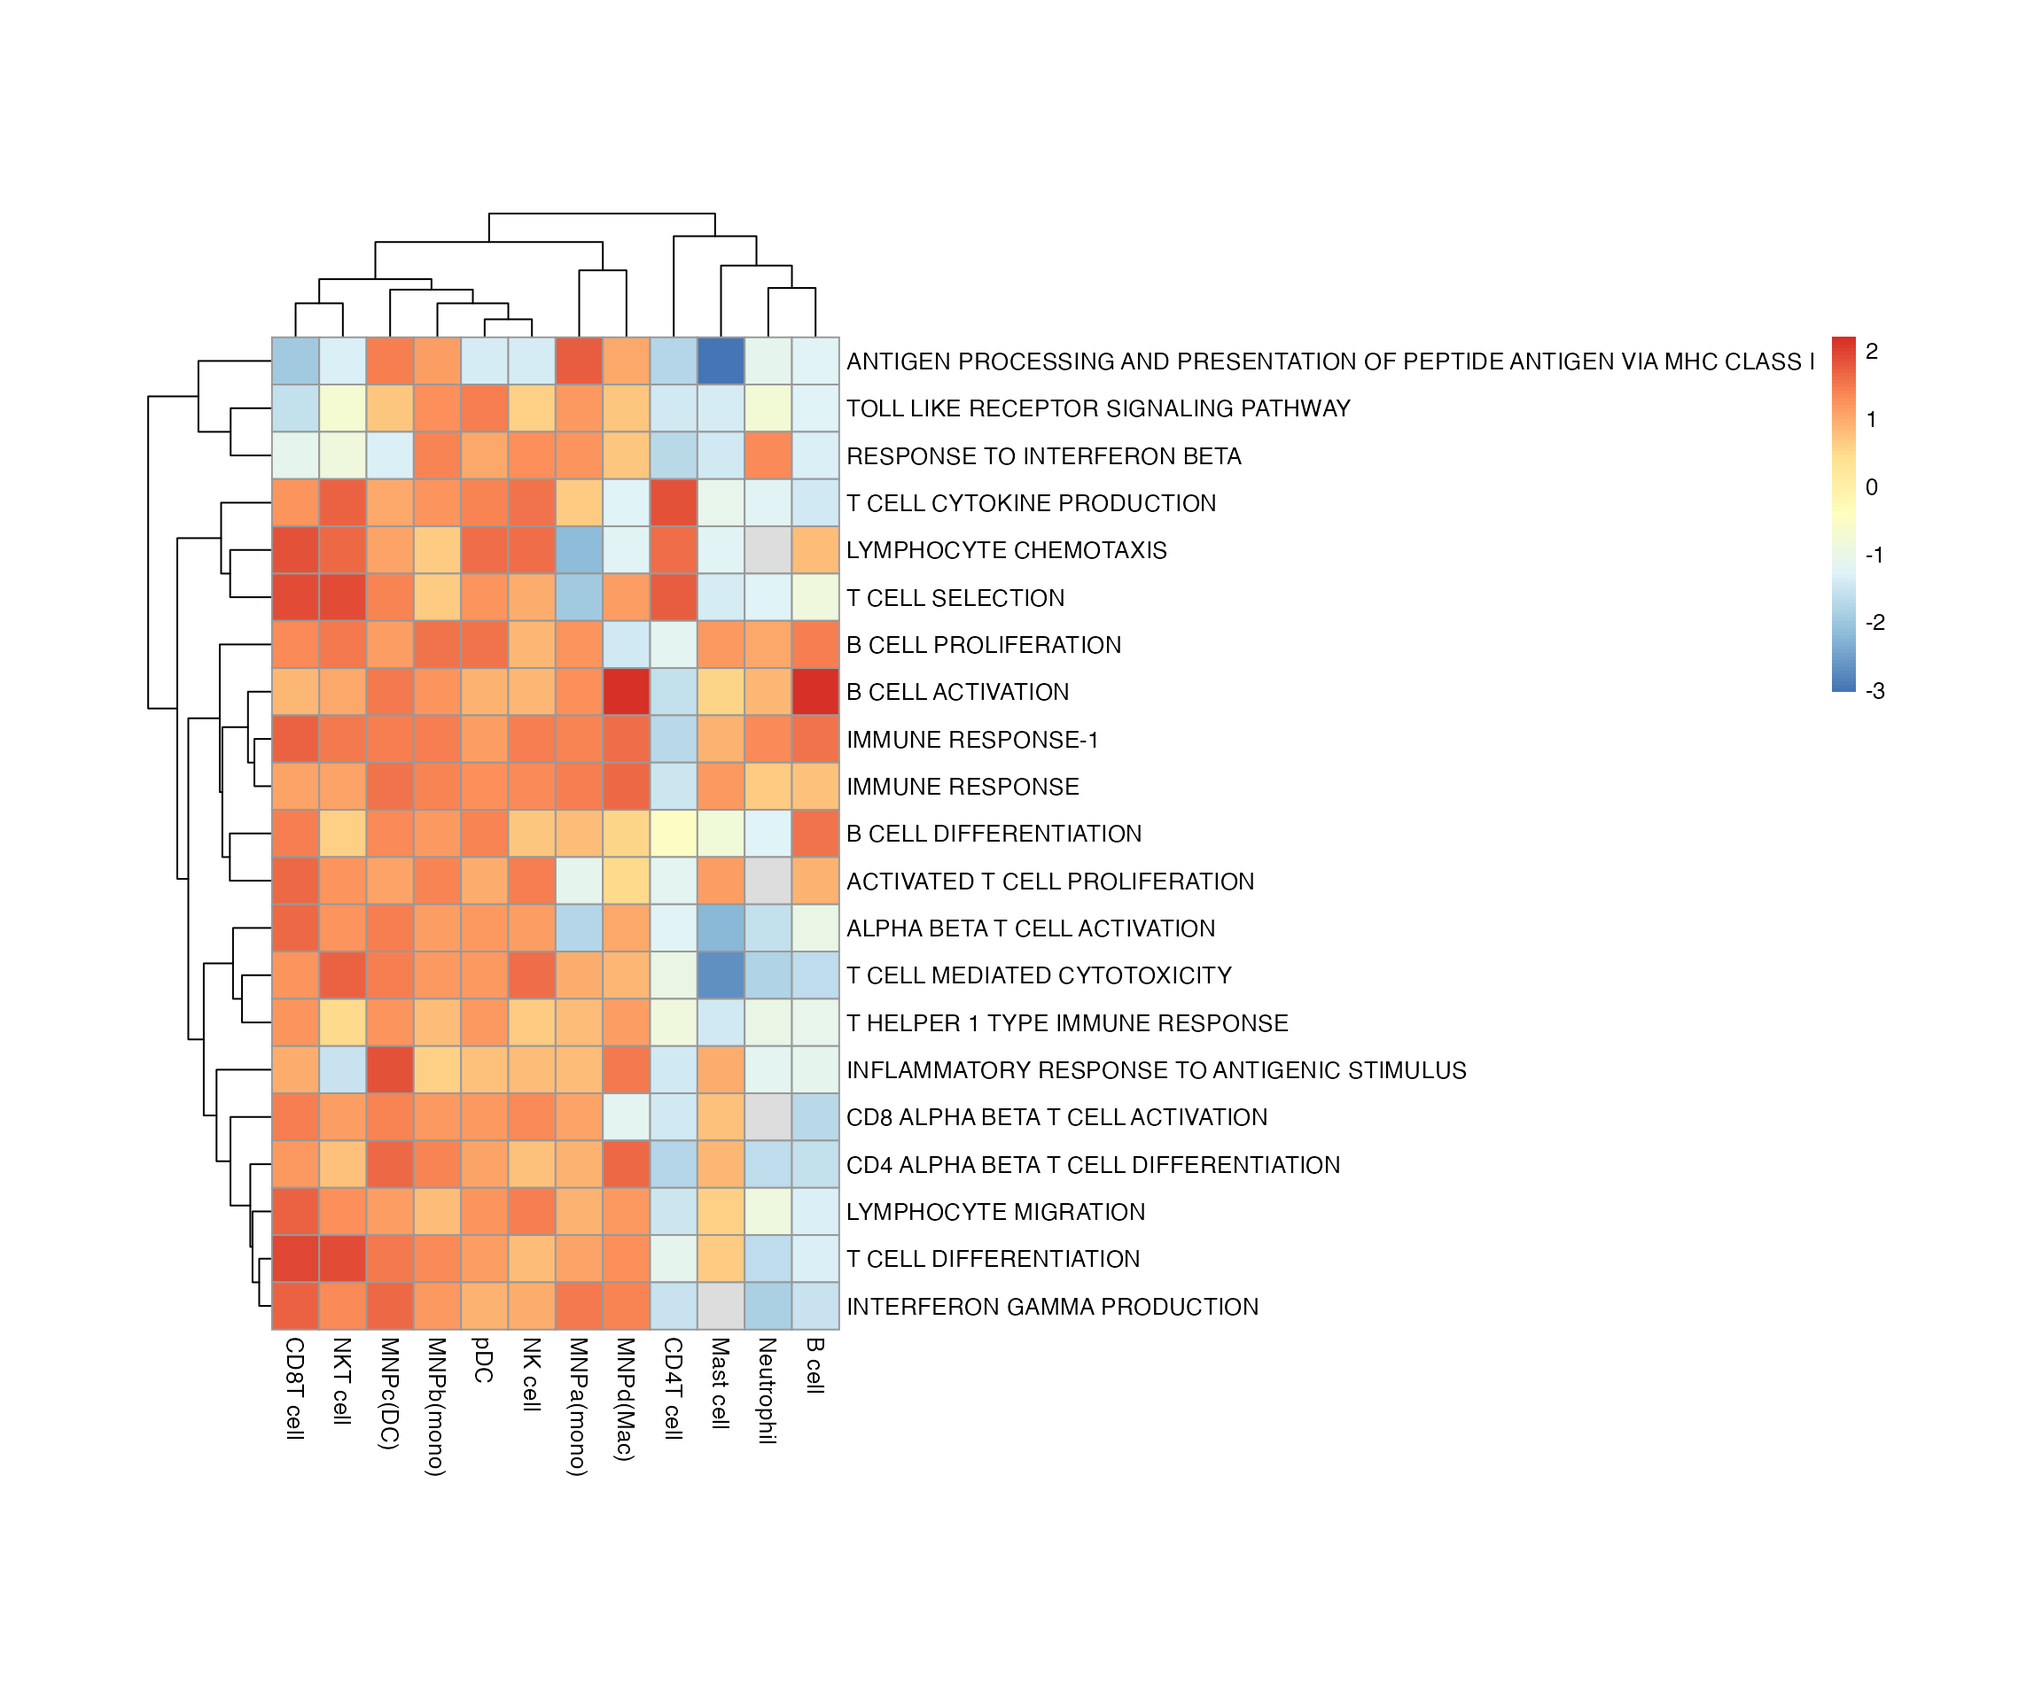
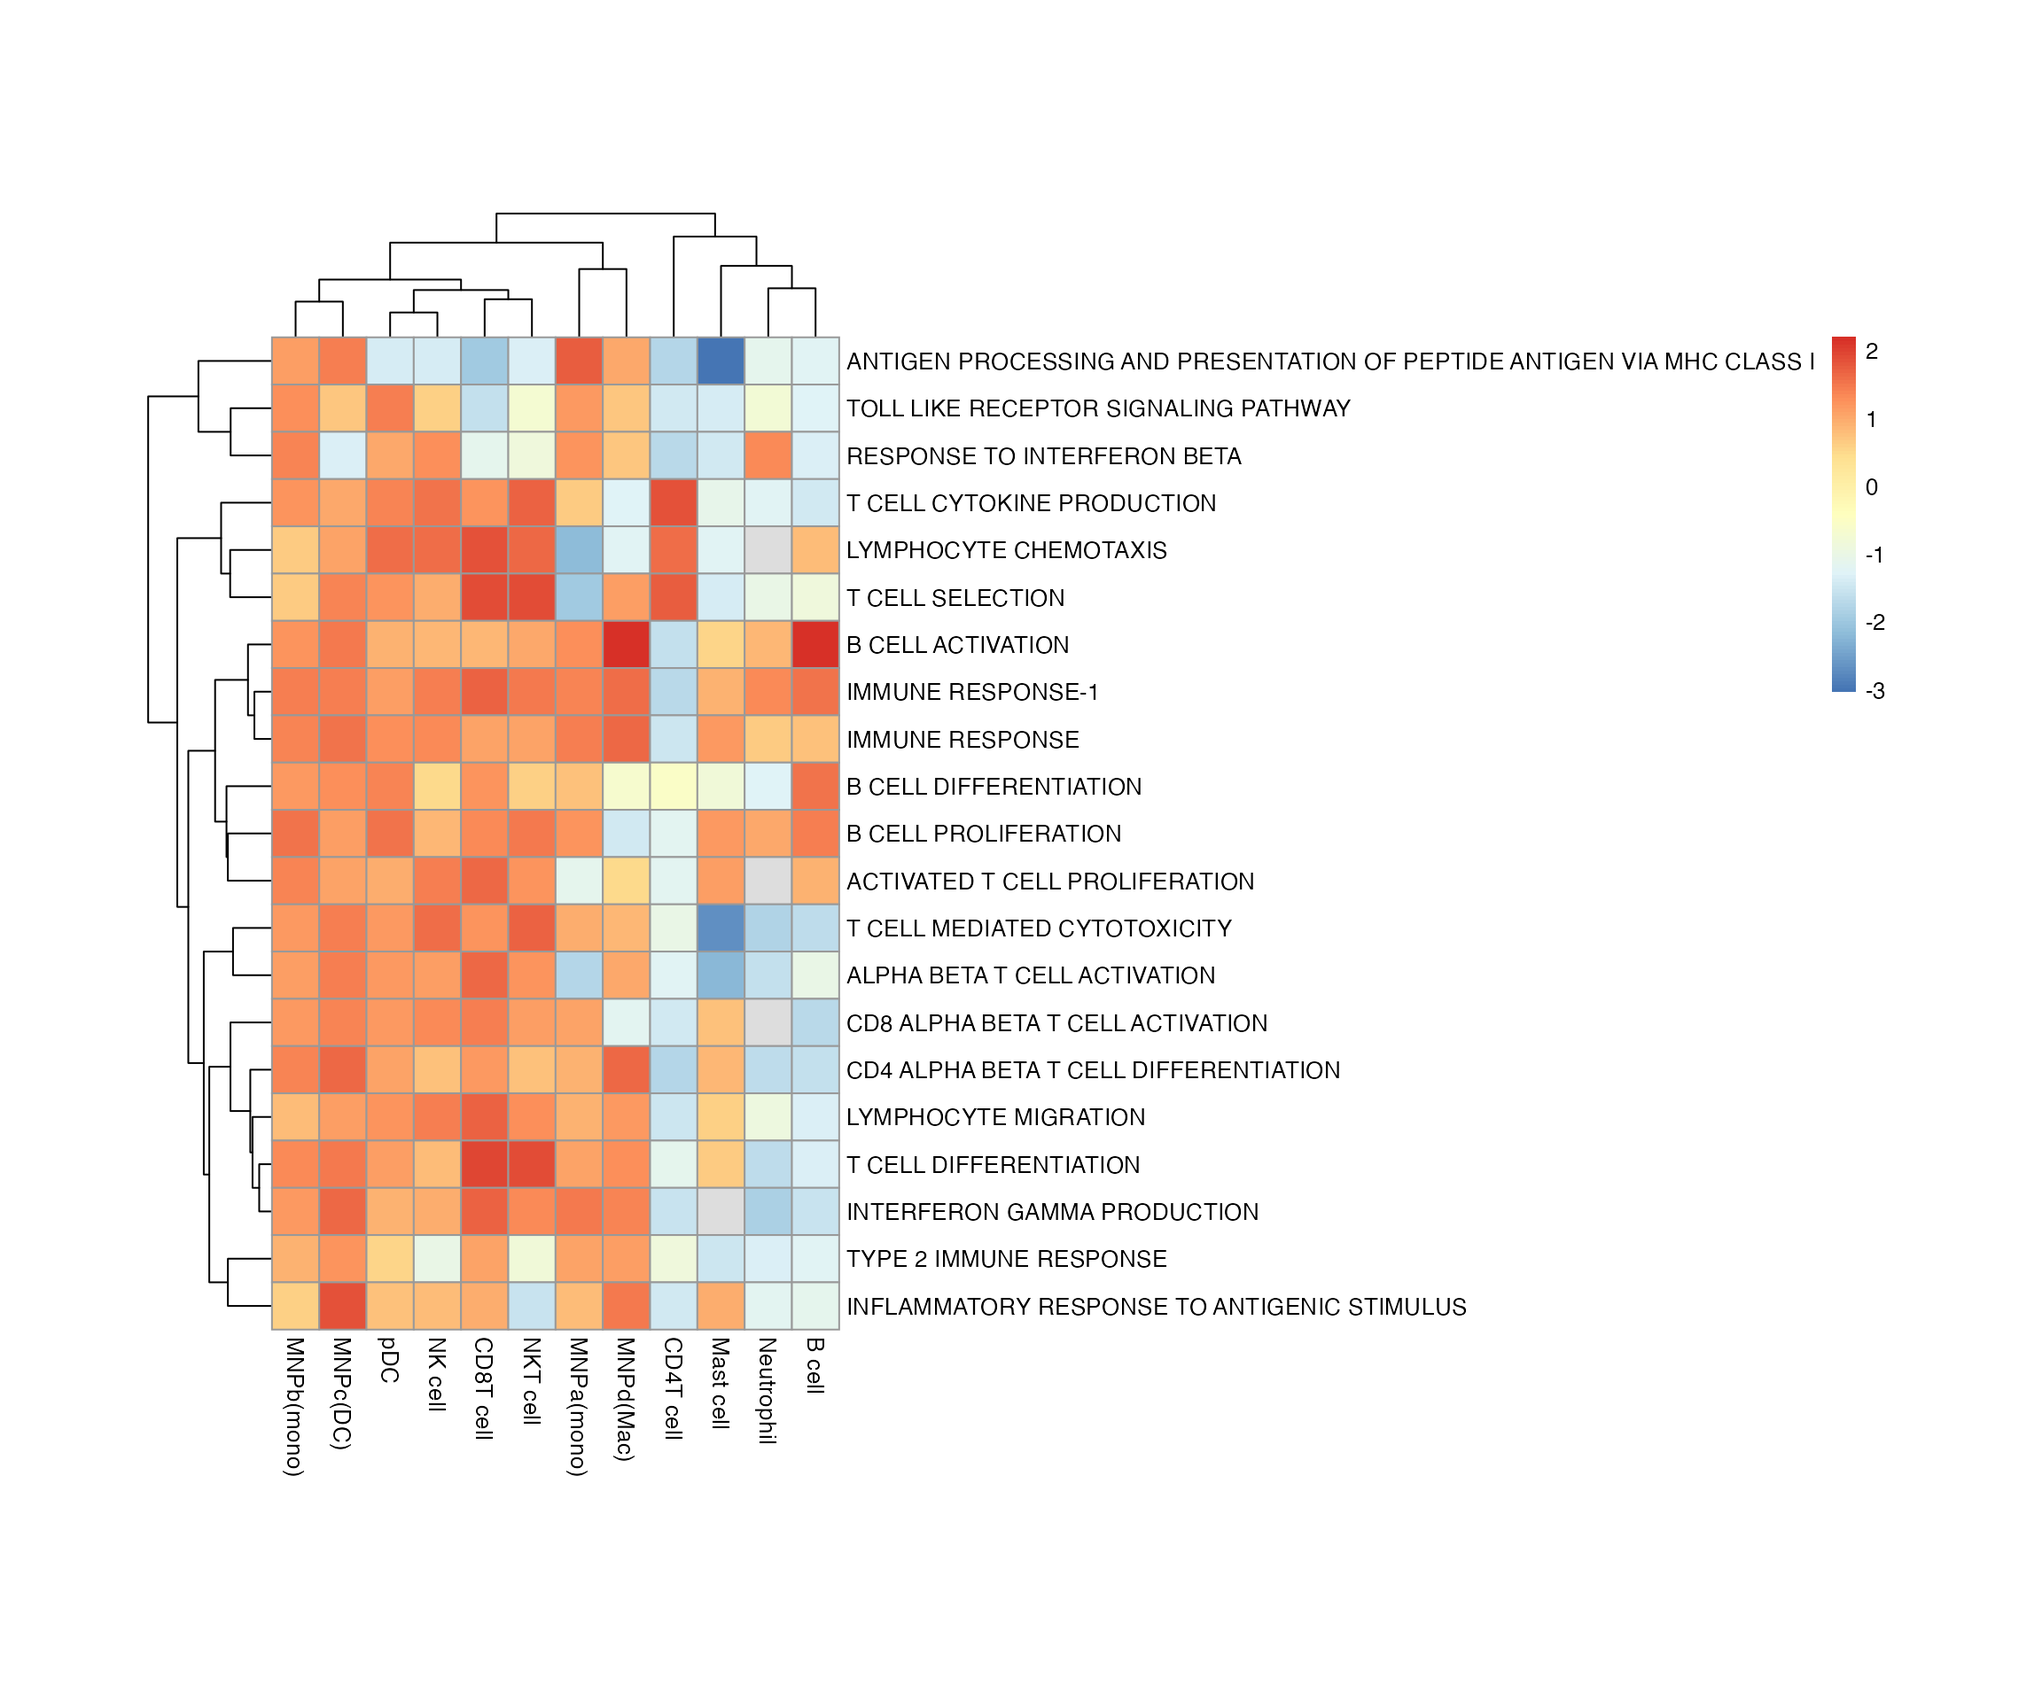
Built site for bowerbird: 0.0.2@9fdd0c6

Changed region(s): [[0.0938, 0.1562, 0.7188, 0.8438]]

diff --git a/articles/bowerbird_vignette.html b/articles/bowerbird_vignette.html
@@ -74,7 +74,7 @@
     <div class="page-header toc-ignore">
       <h1 data-toc-skip>Introduction to bowerbird</h1>
             
-            <h4 class="date">2021-09-05</h4>
+            <h4 class="date">2021-10-25</h4>
       
       
       <div class="hidden name"><code>bowerbird_vignette.rmd</code></div>
@@ -179,10 +179,10 @@
 <span class="co">#&gt; BOWER class</span>
 <span class="co">#&gt; number of genesets:  254 </span>
 <span class="co">#&gt; genesets kNN Graph: </span>
-<span class="co">#&gt; IGRAPH 5edd2ff UNW- 254 799 -- </span>
+<span class="co">#&gt; IGRAPH 1087a77 UNW- 254 799 -- </span>
 <span class="co">#&gt; + attr: name (v/c), cluster (v/n), geneset_size (v/n), terms (v/c),</span>
 <span class="co">#&gt; | labels (v/c), weight (e/n)</span>
-<span class="co">#&gt; + edges from 5edd2ff (vertex names):</span>
+<span class="co">#&gt; + edges from 1087a77 (vertex names):</span>
 <span class="co">#&gt; [1] GOBP_ACTIVATED_T_CELL_PROLIFERATION--GOBP_CD8_POSITIVE_ALPHA_BETA_T_CELL_DIFFERENTIATION          </span>
 <span class="co">#&gt; [2] GOBP_ACTIVATED_T_CELL_PROLIFERATION--GOBP_NEGATIVE_REGULATION_OF_ACTIVATED_T_CELL_PROLIFERATION   </span>
 <span class="co">#&gt; [3] GOBP_ACTIVATED_T_CELL_PROLIFERATION--GOBP_NEGATIVE_REGULATION_OF_LYMPHOCYTE_DIFFERENTIATION       </span>
@@ -197,20 +197,20 @@
 <span class="co">#&gt;   IMMUNE RESPONSE : CLNK HLA-E HLA-F IFNA2 IFNB1 IL18 ...</span>
 <span class="co">#&gt;   T CELL MEDIATED CYTOTOXICITY : HLA-A HLA-B HLA-C HLA-E HLA-F HLA-G ...</span>
 <span class="co">#&gt;   CD8 ALPHA BETA T CELL ACTIVATION : HLA-E GATA3 ADCYAP1 BTK C3 CCR7 ...</span>
-<span class="co">#&gt;   B CELL DIFFERENTIATION : CAMP DEFA1 DEFA1B DEFA3 DEFA4 DEFA5 ...</span>
+<span class="co">#&gt;   TYPE 2 IMMUNE RESPONSE : CAMP DEFA1 DEFA1B DEFA3 DEFA4 DEFA5 ...</span>
 <span class="co">#&gt;   B CELL PROLIFERATION : ADA BAX BCL6 BLK BTK CD74 ...</span>
 <span class="co">#&gt;   T CELL DIFFERENTIATION : FCGR2B FGL2 HLA-DOA LILRB2 THBS1 BMP4 ...</span>
 <span class="co">#&gt;   INTERFERON GAMMA PRODUCTION : ABCB9 ACE ACTR10 ACTR1A ACTR1B AP1B1 ...</span>
-<span class="co">#&gt;   T HELPER 1 TYPE IMMUNE RESPONSE : BATF FOXP3 IL6 TBX21 BCL6 IL2 ...</span>
 <span class="co">#&gt;   TOLL LIKE RECEPTOR SIGNALING PATHWAY : CACTIN PTPRS TICAM1 TLR3 TLR4 TLR9 ...</span>
 <span class="co">#&gt;   T CELL CYTOKINE PRODUCTION : KLRC1 LILRB1 NOD2 PTPRC EGR3 LEF1 ...</span>
+<span class="co">#&gt;   B CELL DIFFERENTIATION : IL10 TLR9 SYK ADA BCL3 C17orf99 ...</span>
 <span class="co">#&gt;   RESPONSE TO INTERFERON BETA : ADA SOS1 SOS2 IRF1 TLR3 IRGM ...</span>
-<span class="co">#&gt;   ACTIVATED T CELL PROLIFERATION : LILRB4 CD24 CD274 FYN HHLA2 ICOSLG ...</span>
-<span class="co">#&gt;   B CELL ACTIVATION : ADA ADAM17 BATF BCL3 BCL6 BTK ...</span>
 <span class="co">#&gt;   LYMPHOCYTE CHEMOTAXIS : CCL2 CCL3 CCL4 CCL5 CCL7 CXCL14 ...</span>
-<span class="co">#&gt;   ALPHA BETA T CELL ACTIVATION : AGER ANXA1 ARG2 ATP7A BATF BCL3 ...</span>
+<span class="co">#&gt;   T CELL SELECTION : TOX BCL2 BATF CTSL FOXP3 IL12B ...</span>
+<span class="co">#&gt;   B CELL ACTIVATION : ADA ADAM17 BATF BCL3 BCL6 BTK ...</span>
+<span class="co">#&gt;   ACTIVATED T CELL PROLIFERATION : LILRB4 CD24 CD274 FYN HHLA2 ICOSLG ...</span>
 <span class="co">#&gt;   INFLAMMATORY RESPONSE TO ANTIGENIC STIMULUS : BTK C3 CD28 HLA-E LTA NOD2 ...</span>
-<span class="co">#&gt;   T CELL SELECTION : PTPRC TOX RABL3 STAT5B ZBTB1 IL15 ...</span>
+<span class="co">#&gt;   ALPHA BETA T CELL ACTIVATION : AGER ANXA1 ARG2 ATP7A BATF BCL3 ...</span>
 <span class="co">#&gt;   ANTIGEN PROCESSING AND PRESENTATION OF PEPTIDE ANTIGEN VIA MHC CLASS I : ABCB9 AZGP1 B2M ERAP1 ERAP2 HFE ...</span>
 <span class="co">#&gt;   LYMPHOCYTE MIGRATION : ADAM10 ADAM17 ADAM8 AIF1 APP CCL20 ...</span></code></pre></div>
 <p>We can visualise it with a simple plot</p>

diff --git a/reference/enrich_genesets.html b/reference/enrich_genesets.html
@@ -273,10 +273,10 @@
 </div><div class='output co'>#&gt; BOWER class
 #&gt; number of genesets:  50 
 #&gt; genesets kNN Graph: 
-#&gt; IGRAPH b5a5ace UNW- 50 124 -- 
+#&gt; IGRAPH 2882157 UNW- 50 124 -- 
 #&gt; + attr: name (v/c), cluster (v/n), geneset_size (v/n), terms (v/c),
 #&gt; | labels (v/c), weight (e/n)
-#&gt; + edges from b5a5ace (vertex names):
+#&gt; + edges from 2882157 (vertex names):
 #&gt; [1] HALLMARK_TNFA_SIGNALING_VIA_NFKB--HALLMARK_HYPOXIA                
 #&gt; [2] HALLMARK_TNFA_SIGNALING_VIA_NFKB--HALLMARK_TGF_BETA_SIGNALING     
 #&gt; [3] HALLMARK_TNFA_SIGNALING_VIA_NFKB--HALLMARK_IL6_JAK_STAT3_SIGNALING
@@ -284,18 +284,19 @@
 #&gt; [5] HALLMARK_TNFA_SIGNALING_VIA_NFKB--HALLMARK_MYOGENESIS             
 #&gt; [6] HALLMARK_TNFA_SIGNALING_VIA_NFKB--HALLMARK_COMPLEMENT             
 #&gt; + ... omitted several edges
-#&gt; number of geneset clusters:  9 
+#&gt; number of geneset clusters:  10 
 #&gt; Core genes:
 #&gt; 	First six genes shown
 #&gt; 	 XENOBIOTIC METABOLISM : LIFR DNAJB9 CD36 ACOX1 IDH1 ECH1 ...
 #&gt; 	 E2F TARGETS : SAC3D1 KIF11 KIF23 RACGAP1 NUMA1 KIF2C ...
 #&gt; 	 ESTROGEN RESPONSE EARLY : JAG1 CTNNB1 GNAI1 FDFT1 DHCR7 FASN ...
-#&gt; 	 INTERFERON ALPHA RESPONSE : MX1 ISG15 IFIT3 IFI44 IFI35 IRF7 ...
-#&gt; 	 TNFA SIGNALING VIA NFKB : JUNB PPP1R15A SERPINE1 ID2 IFNGR2 PMEPA1 ...
 #&gt; 	 HEDGEHOG SIGNALING : VEGFA VLDLR MYH9 ERO1A DDIT4 STC2 ...
+#&gt; 	 INTERFERON GAMMA RESPONSE : IL4R IRF9 CSF1 CXCL10 STAT2 IRF1 ...
 #&gt; 	 APICAL JUNCTION : EGFR ADAM10 CLTC AP2M1 ARF1 MAPK1 ...
-#&gt; 	 IL6 JAK STAT3 SIGNALING : IFNGR1 IL6 CD14 IL1B TNF FAS ...
-#&gt; 	 P53 PATHWAY : BTG2 TAP1 CDKN2B ATF3 BTG1 RRAD ...</div></pre>
+#&gt; 	 TGF BETA SIGNALING : JUNB PPP1R15A SERPINE1 ID2 IFNGR2 PMEPA1 ...
+#&gt; 	 APOPTOSIS : SPTAN1 CDKN1A GSN GPX3 CLU GADD45B ...
+#&gt; 	 P53 PATHWAY : BTG2 TAP1 CDKN2B ATF3 BTG1 RRAD ...
+#&gt; 	 COMPLEMENT : C2 C1S CFB C1R SERPINE1 MMP14 ...</div></pre>
   </div>
   <div class="col-md-3 hidden-xs hidden-sm" id="pkgdown-sidebar">
     <nav id="toc" data-toggle="toc" class="sticky-top">

diff --git a/reference/summarize_clusters.html b/reference/summarize_clusters.html
@@ -196,10 +196,10 @@
 </div><div class='output co'>#&gt; BOWER class
 #&gt; number of genesets:  50 
 #&gt; genesets kNN Graph: 
-#&gt; IGRAPH 2f0877e UNW- 50 124 -- 
+#&gt; IGRAPH 432cea5 UNW- 50 124 -- 
 #&gt; + attr: name (v/c), cluster (v/n), geneset_size (v/n), terms (v/c),
 #&gt; | labels (v/c), weight (e/n)
-#&gt; + edges from 2f0877e (vertex names):
+#&gt; + edges from 432cea5 (vertex names):
 #&gt; [1] HALLMARK_TNFA_SIGNALING_VIA_NFKB--HALLMARK_HYPOXIA                
 #&gt; [2] HALLMARK_TNFA_SIGNALING_VIA_NFKB--HALLMARK_TGF_BETA_SIGNALING     
 #&gt; [3] HALLMARK_TNFA_SIGNALING_VIA_NFKB--HALLMARK_IL6_JAK_STAT3_SIGNALING
@@ -213,12 +213,12 @@
 #&gt; 	 XENOBIOTIC METABOLISM : LIFR DNAJB9 CD36 ACOX1 IDH1 ECH1 ...
 #&gt; 	 E2F TARGETS : SAC3D1 KIF11 KIF23 RACGAP1 NUMA1 KIF2C ...
 #&gt; 	 ESTROGEN RESPONSE EARLY : JAG1 CTNNB1 GNAI1 FDFT1 DHCR7 FASN ...
-#&gt; 	 INTERFERON GAMMA RESPONSE : IL4R IRF9 CSF1 CXCL10 STAT2 IRF1 ...
+#&gt; 	 INTERFERON ALPHA RESPONSE : MX1 ISG15 IFIT3 IFI44 IFI35 IRF7 ...
+#&gt; 	 APOPTOSIS : ATF3 IER3 BIRC3 JUN EGR3 IL1B ...
 #&gt; 	 HEDGEHOG SIGNALING : VEGFA VLDLR MYH9 ERO1A DDIT4 STC2 ...
-#&gt; 	 APOPTOSIS : SPTAN1 CDKN1A GSN GPX3 CLU GADD45B ...
 #&gt; 	 APICAL JUNCTION : EGFR ADAM10 CLTC AP2M1 ARF1 MAPK1 ...
-#&gt; 	 TGF BETA SIGNALING : JUNB PPP1R15A SERPINE1 ID2 IFNGR2 PMEPA1 ...
-#&gt; 	 COMPLEMENT : SERPINE1 MMP14 TIMP1 CD59 PLAUR FN1 ...</div></pre>
+#&gt; 	 TGF BETA SIGNALING : TGFB1 PMEPA1 SERPINE1 ID2 THBS1 PPP1R15A ...
+#&gt; 	 IL6 JAK STAT3 SIGNALING : IL4R IFNGR1 IL1R2 IL3RA TNFRSF1B CSF1 ...</div></pre>
   </div>
   <div class="col-md-3 hidden-xs hidden-sm" id="pkgdown-sidebar">
     <nav id="toc" data-toggle="toc" class="sticky-top">

diff --git a/reference/extract_core.html b/reference/extract_core.html
@@ -154,10 +154,10 @@
 </div><div class='output co'>#&gt; BOWER class
 #&gt; number of genesets:  50 
 #&gt; genesets kNN Graph: 
-#&gt; IGRAPH f65f968 UNW- 50 124 -- 
+#&gt; IGRAPH 1e24c2a UNW- 50 124 -- 
 #&gt; + attr: name (v/c), cluster (v/n), geneset_size (v/n), terms (v/c),
 #&gt; | labels (v/c), weight (e/n)
-#&gt; + edges from f65f968 (vertex names):
+#&gt; + edges from 1e24c2a (vertex names):
 #&gt; [1] HALLMARK_TNFA_SIGNALING_VIA_NFKB--HALLMARK_HYPOXIA                
 #&gt; [2] HALLMARK_TNFA_SIGNALING_VIA_NFKB--HALLMARK_TGF_BETA_SIGNALING     
 #&gt; [3] HALLMARK_TNFA_SIGNALING_VIA_NFKB--HALLMARK_IL6_JAK_STAT3_SIGNALING
@@ -171,12 +171,12 @@
 #&gt; 	 XENOBIOTIC METABOLISM : LIFR DNAJB9 CD36 ACOX1 IDH1 ECH1 ...
 #&gt; 	 E2F TARGETS : SAC3D1 KIF11 KIF23 RACGAP1 NUMA1 KIF2C ...
 #&gt; 	 ESTROGEN RESPONSE EARLY : JAG1 CTNNB1 GNAI1 FDFT1 DHCR7 FASN ...
-#&gt; 	 INTERFERON ALPHA RESPONSE : MX1 ISG15 IFIT3 IFI44 IFI35 IRF7 ...
 #&gt; 	 HEDGEHOG SIGNALING : VEGFA VLDLR MYH9 ERO1A DDIT4 STC2 ...
-#&gt; 	 IL2 STAT5 SIGNALING : JUNB PPP1R15A SERPINE1 ID2 IFNGR2 PMEPA1 ...
-#&gt; 	 APICAL JUNCTION : EGFR ADAM10 CLTC AP2M1 ARF1 MAPK1 ...
 #&gt; 	 APOPTOSIS : SPTAN1 CDKN1A GSN GPX3 CLU GADD45B ...
-#&gt; 	 P53 PATHWAY : BTG2 TAP1 CDKN2B ATF3 BTG1 RRAD ...</div></pre>
+#&gt; 	 INTERFERON GAMMA RESPONSE : IL4R IRF9 CSF1 CXCL10 STAT2 IRF1 ...
+#&gt; 	 APICAL JUNCTION : EGFR ADAM10 CLTC AP2M1 ARF1 MAPK1 ...
+#&gt; 	 TGF BETA SIGNALING : JUNB PPP1R15A SERPINE1 ID2 IFNGR2 PMEPA1 ...
+#&gt; 	 COMPLEMENT : SERPINE1 MMP14 TIMP1 CD59 PLAUR FN1 ...</div></pre>
   </div>
   <div class="col-md-3 hidden-xs hidden-sm" id="pkgdown-sidebar">
     <nav id="toc" data-toggle="toc" class="sticky-top">

diff --git a/reference/plot_graph.html b/reference/plot_graph.html
@@ -223,7 +223,7 @@
 <span class='va'>bwr</span> <span class='op'>&lt;-</span> <span class='fu'><a href='find_clusters.html'>find_clusters</a></span><span class='op'>(</span><span class='va'>bwr</span><span class='op'>)</span>
 <span class='va'>bwr</span> <span class='op'>&lt;-</span> <span class='fu'>summarize_clusters</span><span class='op'>(</span><span class='va'>bwr</span>, ncpus <span class='op'>=</span> <span class='fl'>1</span><span class='op'>)</span>
 <span class='fu'>plot_graph</span><span class='op'>(</span><span class='va'>bwr</span><span class='op'>)</span>
-</div><div class='output co'>#&gt; <span class='warning'>Warning: `guides(&lt;scale&gt; = FALSE)` is deprecated. Please use `guides(&lt;scale&gt; = "none")` instead.</span></div><div class='output co'>#&gt; <span class='warning'>Warning: Removed 40 rows containing missing values (geom_text).</span></div><div class='img'><img src='plot_graph-1.png' alt='' width='700' height='433' /></div></pre>
+</div><div class='output co'>#&gt; <span class='warning'>Warning: `guides(&lt;scale&gt; = FALSE)` is deprecated. Please use `guides(&lt;scale&gt; = "none")` instead.</span></div><div class='output co'>#&gt; <span class='warning'>Warning: Removed 41 rows containing missing values (geom_text).</span></div><div class='img'><img src='plot_graph-1.png' alt='' width='700' height='433' /></div></pre>
   </div>
   <div class="col-md-3 hidden-xs hidden-sm" id="pkgdown-sidebar">
     <nav id="toc" data-toggle="toc" class="sticky-top">

diff --git a/reference/find_clusters.html b/reference/find_clusters.html
@@ -164,9 +164,9 @@
 </div><div class='output co'>#&gt; BOWER class
 #&gt; number of genesets:  50 
 #&gt; genesets kNN Graph: 
-#&gt; IGRAPH 6874481 UNW- 50 124 -- 
+#&gt; IGRAPH 05ca218 UNW- 50 124 -- 
 #&gt; + attr: name (v/c), cluster (v/n), geneset_size (v/n), weight (e/n)
-#&gt; + edges from 6874481 (vertex names):
+#&gt; + edges from 05ca218 (vertex names):
 #&gt; [1] HALLMARK_TNFA_SIGNALING_VIA_NFKB--HALLMARK_HYPOXIA                          
 #&gt; [2] HALLMARK_TNFA_SIGNALING_VIA_NFKB--HALLMARK_TGF_BETA_SIGNALING               
 #&gt; [3] HALLMARK_TNFA_SIGNALING_VIA_NFKB--HALLMARK_IL6_JAK_STAT3_SIGNALING          
@@ -175,7 +175,7 @@
 #&gt; [6] HALLMARK_TNFA_SIGNALING_VIA_NFKB--HALLMARK_COMPLEMENT                       
 #&gt; [7] HALLMARK_TNFA_SIGNALING_VIA_NFKB--HALLMARK_EPITHELIAL_MESENCHYMAL_TRANSITION
 #&gt; + ... omitted several edges
-#&gt; number of geneset clusters:  9 </div></pre>
+#&gt; number of geneset clusters:  10 </div></pre>
   </div>
   <div class="col-md-3 hidden-xs hidden-sm" id="pkgdown-sidebar">
     <nav id="toc" data-toggle="toc" class="sticky-top">

diff --git a/index.html b/index.html
@@ -82,6 +82,7 @@
 <p><a href="https://blog.nature.org/science/2021/01/04/bowerbirds-meet-the-bird-worlds-kleptomaniac-love-architects/"><img src="https://blog.nature.org/science/files/2020/11/32487196918_8dd537c82a_k.jpg" alt="bower" width="400"></a></p>
 <p>Picture credits: A satin bowerbird’s bower, decorated with blue objects. © Stefan Marks / <a href="https://www.flickr.com/photos/stefan_marks/32487196918/">Flickr</a></p>
 <p>I’m not sure if this mating ritual is in anyway similar to my attempts to visualise pathway analyses and their association with celltype identities/states… who cares. It’s just a name.</p>
+<p>This is being rebuilt from the ground-up in a separate implemenation.</p>
 <div id="installation" class="section level2">
 <h2 class="hasAnchor">
 <a href="#installation" class="anchor"></a>Installation</h2>

diff --git a/reference/snn_graph.html b/reference/snn_graph.html
@@ -170,9 +170,9 @@
 </div><div class='output co'>#&gt; BOWER class
 #&gt; number of genesets:  50 
 #&gt; genesets kNN Graph: 
-#&gt; IGRAPH 8bd2320 UNW- 50 124 -- 
+#&gt; IGRAPH bd96619 UNW- 50 124 -- 
 #&gt; + attr: name (v/c), weight (e/n)
-#&gt; + edges from 8bd2320 (vertex names):
+#&gt; + edges from bd96619 (vertex names):
 #&gt; [1] HALLMARK_TNFA_SIGNALING_VIA_NFKB--HALLMARK_HYPOXIA                          
 #&gt; [2] HALLMARK_TNFA_SIGNALING_VIA_NFKB--HALLMARK_TGF_BETA_SIGNALING               
 #&gt; [3] HALLMARK_TNFA_SIGNALING_VIA_NFKB--HALLMARK_IL6_JAK_STAT3_SIGNALING          
